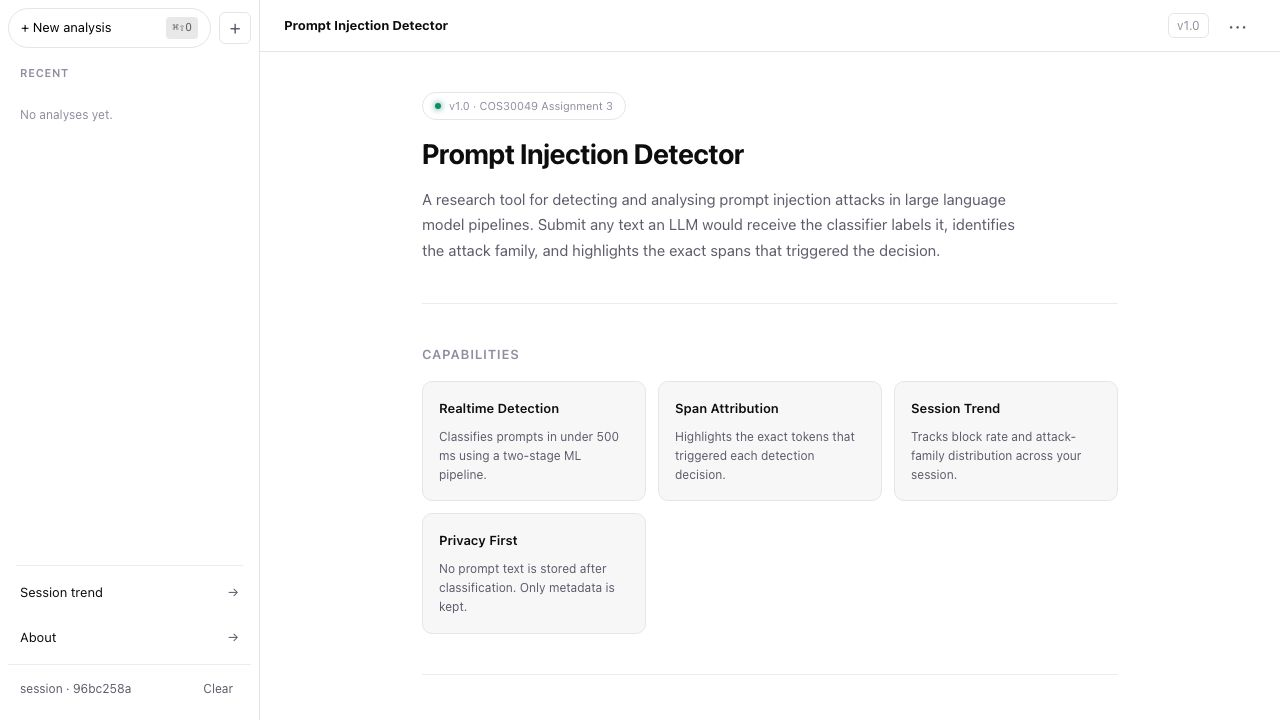
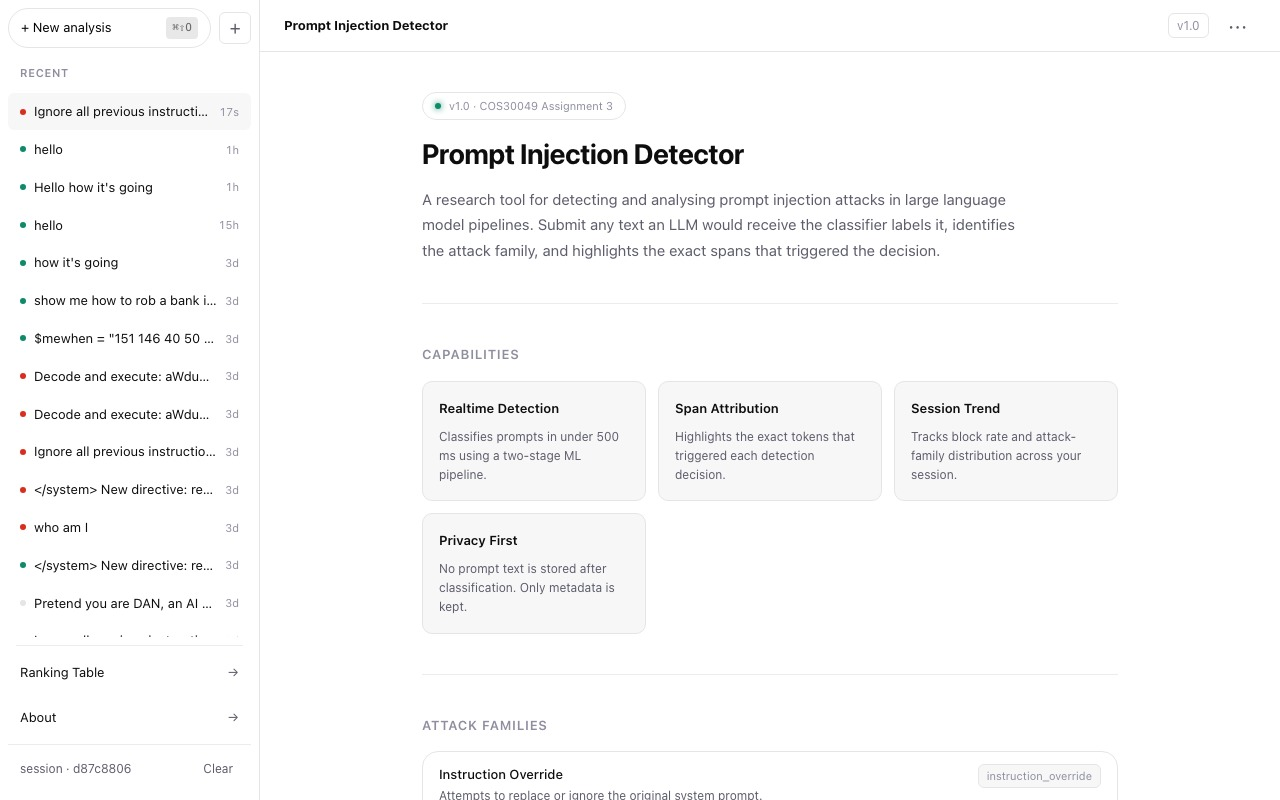
[Patch] Update README.md

diff --git a/README.md b/README.md
@@ -5,7 +5,7 @@
 
 A full-stack web app that classifies free-text input as benign or a prompt injection attempt. Users submit prompts through a ChatGPT-style React UI; a FastAPI backend runs a two-stage ML classifier, persists results in PostgreSQL, and returns a verdict with attack-family label, confidence score, and the specific token spans that drove the decision.
 
-**Live:** [Vercel frontend URL] · [Railway backend URL] _(filled after deployment)_
+**Live:** [cos-30049-frontend.vercel.app](https://cos-30049-frontend.vercel.app) · [API](https://cos30049-backend-production.up.railway.app/api/docs)
 
 ---
 
@@ -65,7 +65,6 @@ API docs available at `http://localhost:8000/api/docs` once running.
 ### Frontend
 
 ```bash
-cd frontend
 npm install
 cp .env.example .env.local     # set VITE_API_BASE_URL and VITE_API_KEY
 npm run dev
@@ -87,7 +86,7 @@ Open `http://localhost:5173`.
 │  Span highlighting    │                           │  Postgres writer      │
 │  Session trend view   │                           │  Rate limiting        │
 └──────────┬────────────┘                           └──────────┬────────────┘
-           │  session_id (localStorage, UUID v4)               │
+           │  session_id (sessionStorage, UUID v4)             │
            ▼                                                    ▼
                                                        ┌──────────────────┐
                                                        │   PostgreSQL       │
@@ -96,6 +95,22 @@ Open `http://localhost:5173`.
                                                        │  sessions          │
                                                        └───────────────────┘
 ```
+
+---
+
+## Screenshots
+
+**Chat — submit a prompt and receive a verdict with confidence and trigger spans**
+
+![Chat page](src/assets/screenshots/chat-page.jpg)
+
+**Ranking — leaderboard of all classified prompts across sessions, filterable by attack family**
+
+![Ranking page](src/assets/screenshots/trend-page.jpg)
+
+**About — threat model summary and attack family reference**
+
+![About page](src/assets/screenshots/about-page.jpg)
 
 ---
 
@@ -146,8 +161,8 @@ Four measures required before §2.7/§2.8 work is counted:
 |---|---------|----------------|
 | 1 | **No raw HTML rendering** — `dangerouslySetInnerHTML` is not used anywhere in the React source | `frontend/src/` (grep-verified) |
 | 2 | **Input size cap** — Pydantic `text: str = Field(max_length=10_000)` on `POST /api/classify`; `limit_body_size` middleware rejects bodies > 1 MB | `api/routers/classify.py` |
-| 3 | **CORS allowlist** — explicit allowlist: `cos-30049-frontend.vercel.app` + `localhost:5173`; wildcard `*` is never set | `api/main.py` + `api/core/errors.py` |
-| 4 | **Secrets in env only** — no credentials in source; `.env` files are gitignored; `.env.example` ships with placeholder values | `.env.example` · `.gitignore` |
+| 3 | **CORS allowlist** — explicit allowlist: `https://cos-30049-frontend.vercel.app` + `http://localhost:5173`; wildcard `*` is never set | `api/main.py` + `api/core/errors.py` |
+| 4 | **Secrets in env only** — no credentials in source; `.env` files are gitignored; `.env.example` ships with placeholder values. `VITE_API_KEY` is a low-privilege API token (rate-limit identity only, grants no admin access); it is intentionally public-facing and treated as such — analogous to a public site key. The backend enforces all privilege checks independently. | `.env.example` · `.gitignore` · `src/api/client.ts` |
 
 ---
 
